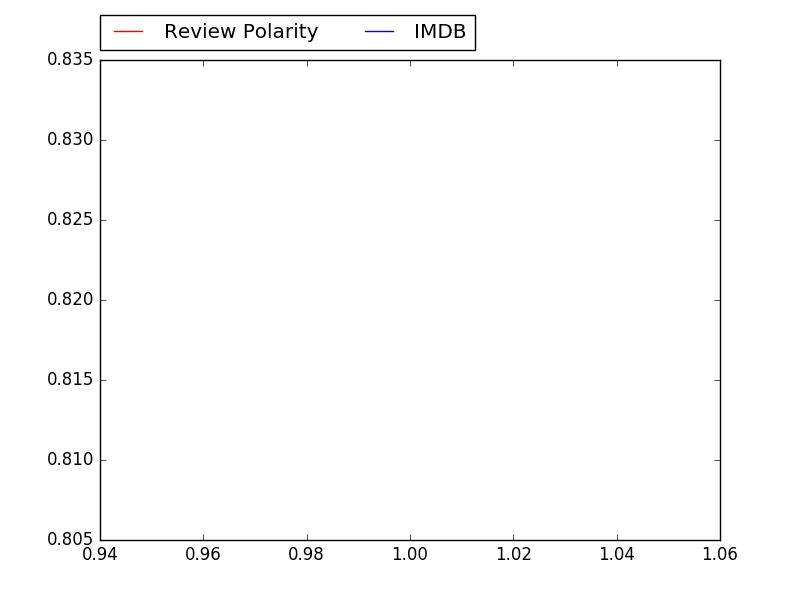
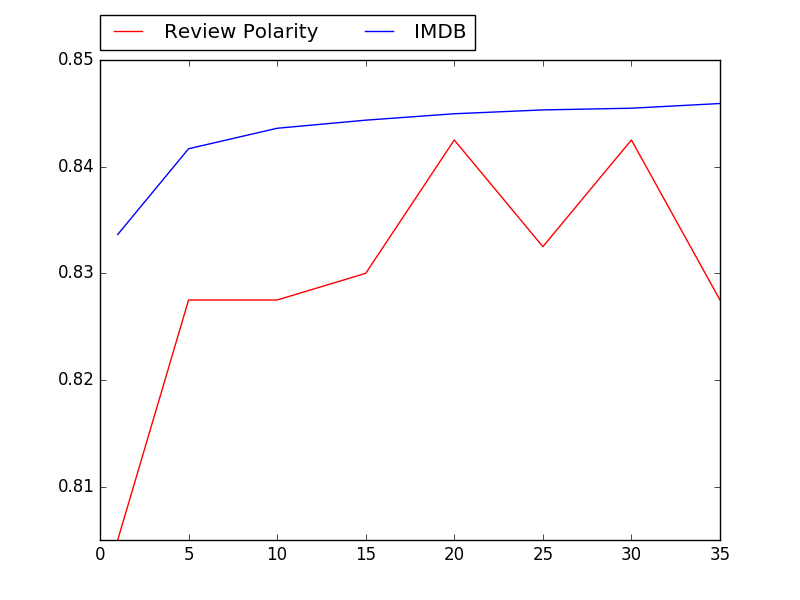
added graph for advanced tokenizer

diff --git a/src/Main.py b/src/Main.py
@@ -19,6 +19,7 @@ POS_LABEL = 'pos'
 NEG_LABEL = 'neg'
 K = 5
 
+
 def getDocuments(label, path, fileNames):
     documents = []
     for fileName in fileNames:
@@ -26,12 +27,14 @@ def getDocuments(label, path, fileNames):
         documents.append((document, label))
     return documents
 
+
 def kFoldCrossValidate(k, classifier, training_set: np.array):
     kf = KFold(n_splits=k)
 
     for train_index, test_index in kf.split(training_set):
         training_data, test_data = training_set[train_index], training_set[test_index]
         classifier.train_model(training_data.tolist())
+
 
 def evaluateReviewPolarity(k, tokenizer: Tokenizer, alphas):
     nb = NaiveBayesClassifier(tokenizer)
@@ -53,6 +56,7 @@ def evaluateReviewPolarity(k, tokenizer: Tokenizer, alphas):
         accuracies.append(accuracy)
     return accuracies
 
+
 def evaluateIMDB(k, tokenizer: Tokenizer, alphas):
     nb = NaiveBayesClassifier(tokenizer)
 
@@ -66,7 +70,6 @@ def evaluateIMDB(k, tokenizer: Tokenizer, alphas):
     test_pos_documents = getDocuments(Labels.strong_pos, test_pos_path, os.listdir(test_pos_path))
     test_neg_documents = getDocuments(Labels.strong_neg, test_neg_path, os.listdir(test_neg_path))
 
-
     kFoldCrossValidate(k, nb, np.array(train_pos_documents + train_neg_documents))
 
     accuracies = []
@@ -74,6 +77,7 @@ def evaluateIMDB(k, tokenizer: Tokenizer, alphas):
         accuracy = nb.evaluate(test_pos_documents + test_neg_documents, alpha)
         accuracies.append(accuracy)
     return accuracies
+
 
 def plotAccuracies(tokenizerName, alphas, reviewPolarityAccuracies, imdbAccuracies):
     line_rp, = plt.plot(alphas, reviewPolarityAccuracies, 'r', label='Review Polarity')
@@ -85,6 +89,7 @@ def plotAccuracies(tokenizerName, alphas, reviewPolarityAccuracies, imdbAccuraci
     plt.draw()
     fig1.savefig("../results/{0}_Accuracy.png".format(tokenizerName.replace(" ", "_")))
 
+
 def printTable(tokenizerName, alphas, reviewPolarityAccuracies, imdbAccuracies):
     print("###{0}".format(tokenizerName))
     print("| Alpha  | Review Polarity Accuracy | IMDB Accuracy |")
@@ -92,6 +97,7 @@ def printTable(tokenizerName, alphas, reviewPolarityAccuracies, imdbAccuracies):
     for i in range(len(alphas)):
         print("| {0}  | {1}  | {2} |".format(alphas[i], reviewPolarityAccuracies[i], imdbAccuracies[i]))
     plotAccuracies(tokenizerName, alphas, reviewPolarityAccuracies, imdbAccuracies)
+
 
 # alphas = [35]
 # tokenizer = SimpleTokenizer()
@@ -104,13 +110,12 @@ def printTable(tokenizerName, alphas, reviewPolarityAccuracies, imdbAccuracies):
 
 # printTable("Simple Tokenizer", alphas, reviewPolarityAccuracies, imdbAccuracies)
 
-alphas = [10]
-tokenizer = AdvancedTokenizer()
-reviewPolarityAccuracies = evaluateReviewPolarity(K, tokenizer, alphas)
-imdbAccuracies = evaluateIMDB(K, tokenizer, alphas)
+# alphas = [35]
+# tokenizer = AdvancedTokenizer()
+# reviewPolarityAccuracies = evaluateReviewPolarity(K, tokenizer, alphas)
+# imdbAccuracies = evaluateIMDB(K, tokenizer, alphas)
 
-# alphas = [1, 5, 10, 15, 20, 25, 30, 35]
-# reviewPolarityAccuracies = [0.81, 0.83, 0.835, 0.8475, 0.8475, 0.85, 0.85, 0.845]
-# imdbAccuracies = [0.82312, 0.83088, 0.83392, 0.83532, 0.83532, 0.83576, 0.83628, 0.83652]
+alphas = [1, 5, 10, 15, 20, 25, 30, 35]
+reviewPolarityAccuracies = [0.805, 0.8275, 0.8275, 0.83, 0.8425, 0.8325, 0.8425, 0.8275]
+imdbAccuracies = [0.83364, 0.84168, 0.8436, 0.84436, 0.84496, 0.84532, 0.84548, 0.84592]
 printTable("Advanced Tokenizer", alphas, reviewPolarityAccuracies, imdbAccuracies)
-

diff --git a/Results.md b/Results.md
@@ -21,5 +21,12 @@
 |---|:---:|:---:|
 | 1  | 0.805  | 0.83364 |
  5  | 0.8275  | 0.84168 |
+| 10  | 0.8275  | 0.8436 |
+| 15  | 0.83  | 0.84436 |
+| 20  | 0.8425  | 0.84496 |
+| 25  | 0.8325  | 0.84532 |
+| 30  | 0.8425  | 0.84548 |
+| 35  | 0.8275  | 0.84592 |
+
 ![Advanced Tokenizer Accuracy]
 (/results/Advanced_Tokenizer_Accuracy.png)
